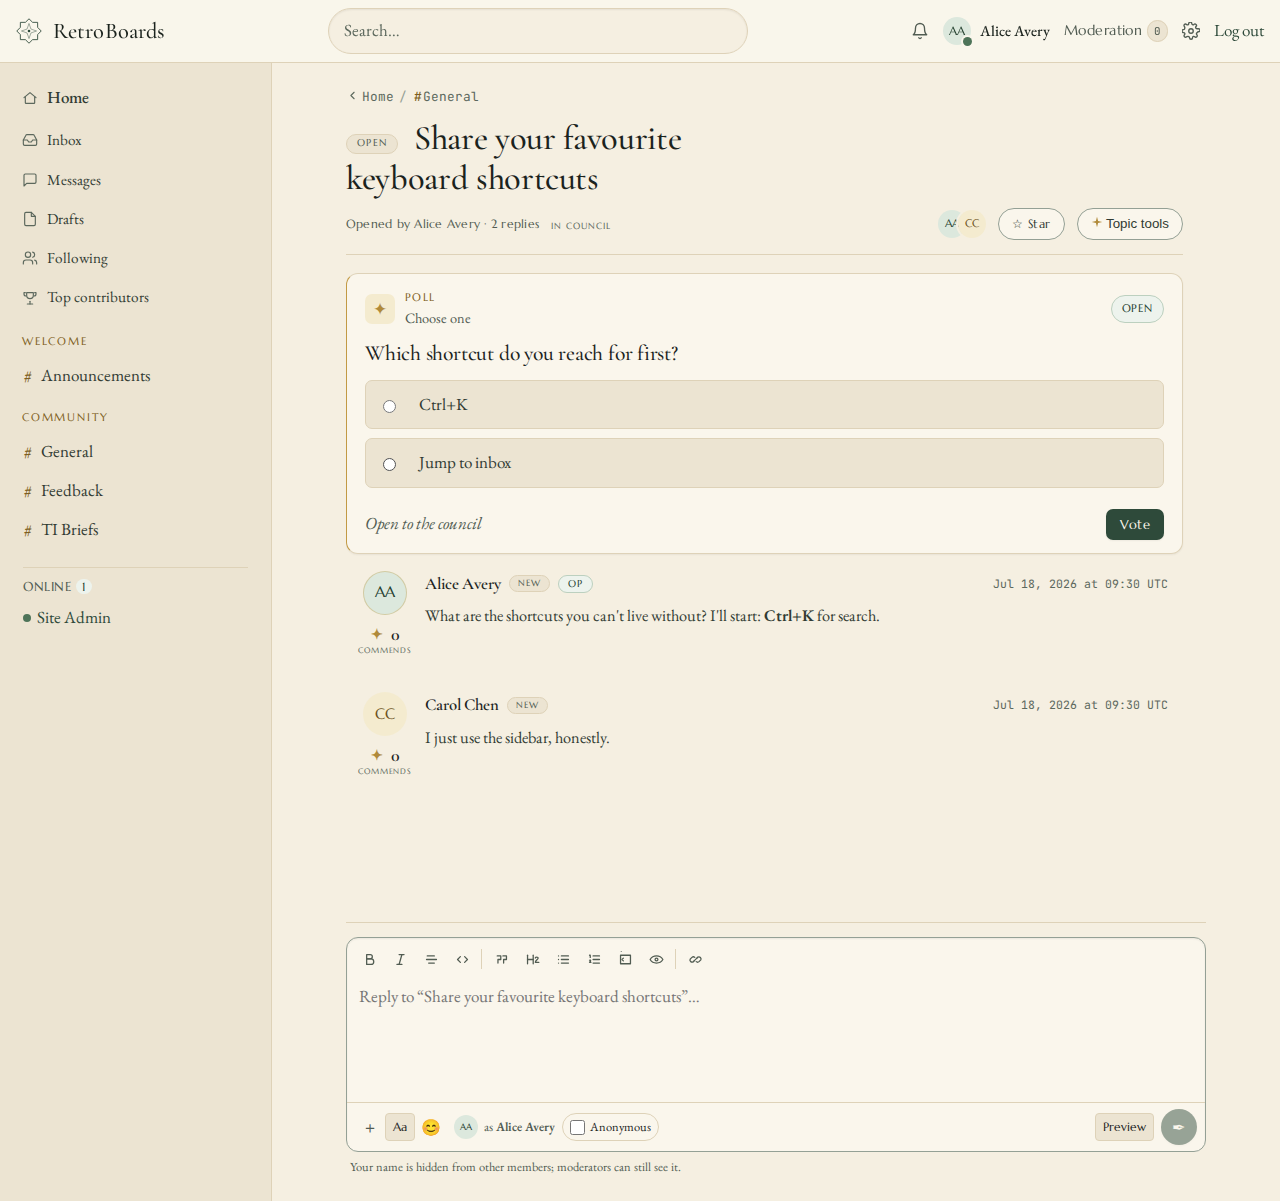
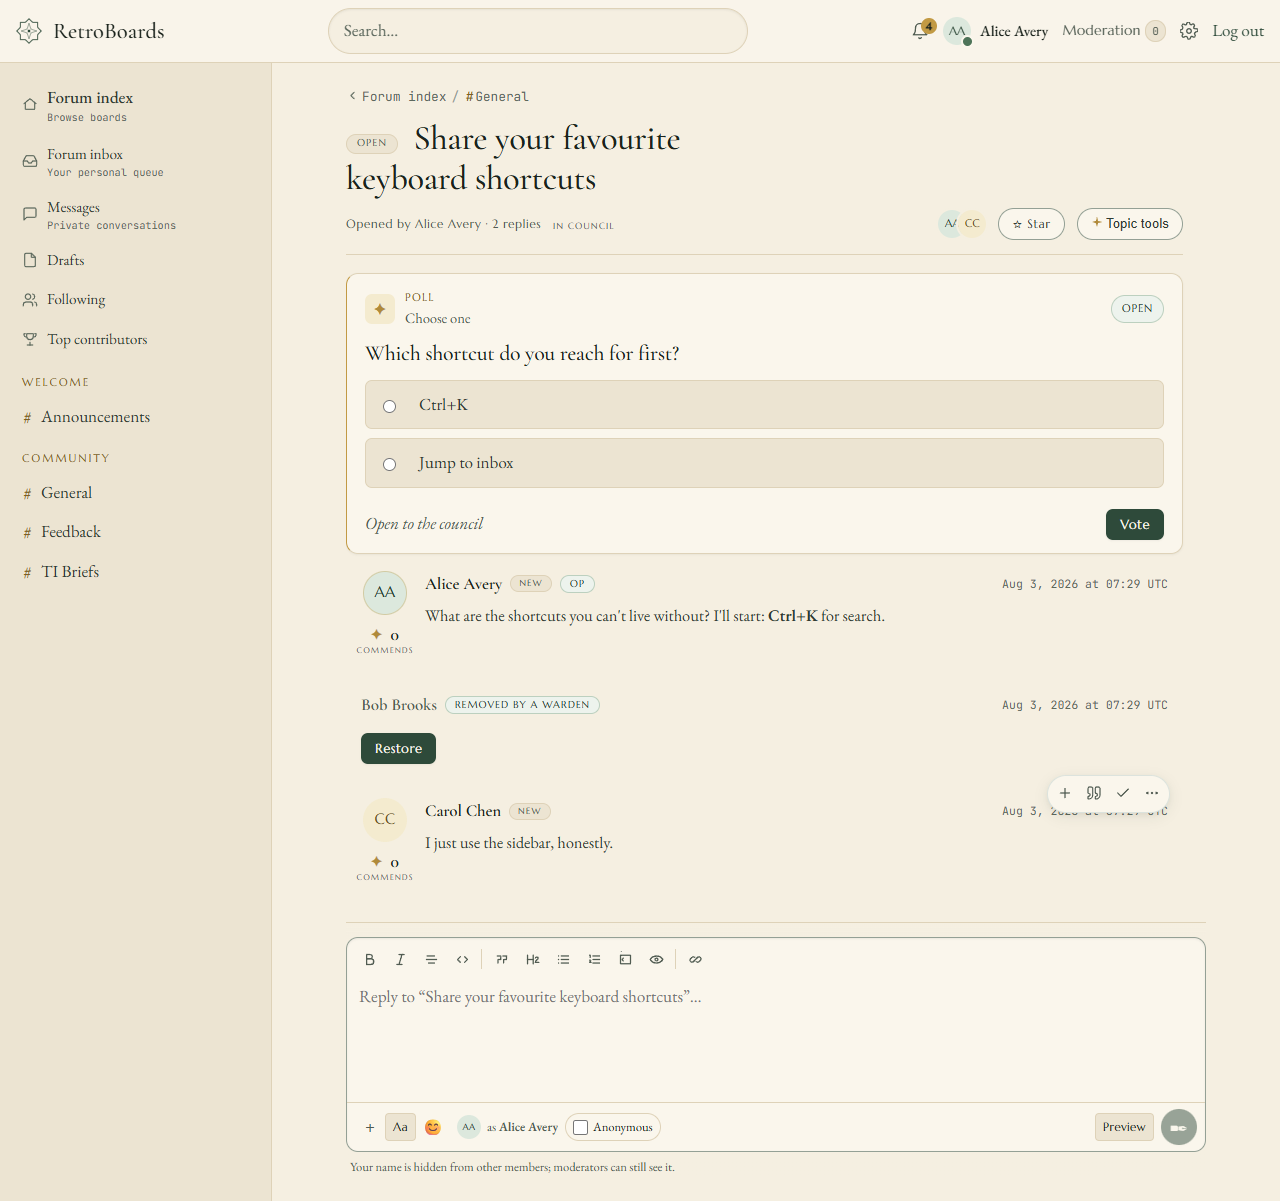
test: verify Imladris production forum surfaces

diff --git a/tests/browser/imladris-forum-surfaces.spec.ts b/tests/browser/imladris-forum-surfaces.spec.ts
@@ -121,6 +121,19 @@ async function expectNoHorizontalOverflow(page: Page): Promise<void> {
   expect(layout.scrollWidth, JSON.stringify(layout)).toBeLessThanOrEqual(layout.viewportWidth);
 }
 
+async function expectBoardIdentityContent(page: Page, theme: Theme): Promise<void> {
+  const board = page.locator('[data-board-identity]');
+  await expect(board.locator('.eyebrow'), `${theme} board eyebrow`).toBeVisible();
+  await expect(board.locator('h1'), `${theme} board title`).toBeVisible();
+  await expect(board.locator('h1'), `${theme} board title text`).toContainText('#General');
+  await expect(board.getByText('Talk about anything.'), `${theme} board description`).toBeVisible();
+  await expect(board.locator('[data-board-fact]'), `${theme} board facts`).toHaveCount(3);
+  for (const fact of await board.locator('[data-board-fact]').all()) {
+    await expect(fact, `${theme} board fact`).toBeVisible();
+  }
+  await expect(board.getByRole('button', { name: 'New topic' }), `${theme} promoted New topic`).toBeVisible();
+}
+
 function productionScreenshot(project: 'desktop' | 'mobile', surface: Surface, theme: Theme): string {
   return path.join(evidenceRoot, project, `${surface}-${theme}.png`);
 }
@@ -130,12 +143,25 @@ async function captureSurface(
   project: 'desktop' | 'mobile',
   surface: Surface,
   theme: Theme,
+  assertReady?: () => Promise<void>,
 ): Promise<void> {
+  await page.emulateMedia({ reducedMotion: 'reduce' });
   await page.evaluate((nextTheme) => {
     document.documentElement.setAttribute('data-theme', nextTheme);
   }, theme);
   await expect(page.locator('html')).toHaveAttribute('data-theme', theme);
-  await page.evaluate(() => document.fonts.ready.then(() => undefined));
+  await page.evaluate(async () => {
+    await document.fonts.ready;
+    await new Promise<void>((resolve) => requestAnimationFrame(() => requestAnimationFrame(() => resolve())));
+  });
+  if (assertReady) {
+    await assertReady();
+  }
+  await page.screenshot({ fullPage: true, animations: 'disabled' });
+  await page.evaluate(() => new Promise<void>((resolve) => requestAnimationFrame(() => resolve())));
+  if (assertReady) {
+    await assertReady();
+  }
   const output = productionScreenshot(project, surface, theme);
   fs.mkdirSync(path.dirname(output), { recursive: true });
   await page.screenshot({ path: output, fullPage: true, animations: 'disabled' });
@@ -179,6 +205,11 @@ async function captureComparison(
         </main>
       </body>
     </html>`, { waitUntil: 'load' });
+  await page.locator('img').evaluateAll(async (images) => {
+    await Promise.all(images.map((image) => image.decode()));
+  });
+  await page.screenshot({ fullPage: true, animations: 'disabled' });
+  await page.evaluate(() => new Promise<void>((resolve) => requestAnimationFrame(() => resolve())));
   const output = path.join(evidenceRoot, 'comparisons', comparisonName(project, surface));
   fs.mkdirSync(path.dirname(output), { recursive: true });
   await page.screenshot({ path: output, fullPage: true, animations: 'disabled' });
@@ -210,8 +241,8 @@ test('forum index, board, and canonical thread satisfy production visual and acc
   await expect(page.getByText('Pinned first, then last post')).toBeVisible();
   await expectNoHorizontalOverflow(page);
   await expectNoSeriousA11yViolations(page, '.board-view');
-  await captureSurface(page, project, 'board', 'light');
-  await captureSurface(page, project, 'board', 'dark');
+  await captureSurface(page, project, 'board', 'light', () => expectBoardIdentityContent(page, 'light'));
+  await captureSurface(page, project, 'board', 'dark', () => expectBoardIdentityContent(page, 'dark'));
 
   await openSeedThread(page);
   await expect(page.locator('[data-thread-study]')).toBeVisible();

diff --git a/tests/browser/composer-shell.spec.ts b/tests/browser/composer-shell.spec.ts
@@ -141,9 +141,15 @@ async function visit(page: Page, url: string): Promise<void> {
   expect(response!.status(), `GET ${url} should not be an error`).toBeLessThan(400);
 }
 
+async function openEnhancedBoardComposer(page: Page): Promise<void> {
+  const promotedTrigger = page.locator('[data-open-topic-composer]');
+  await expect(promotedTrigger).toBeVisible();
+  await promotedTrigger.click();
+}
+
 async function openBoardComposer(page: Page): Promise<Locator> {
   await visit(page, '/c/general');
-  await page.locator('details.composer-details > summary').click();
+  await openEnhancedBoardComposer(page);
   const form = page.locator('form.composer-shell[data-composer-instance^="new-thread-board-"]').first();
   await expect(form).toBeVisible();
   return form;
@@ -419,7 +425,7 @@ test('format row toggle persists and icon tooltips work for pointer and keyboard
   expect(await page.evaluate(() => localStorage.getItem('rb-composer:format-row'))).toBe('closed');
 
   await page.reload();
-  await page.locator('details.composer-details > summary').click();
+  await openEnhancedBoardComposer(page);
   form = page.locator('form.composer-shell[data-composer-instance^="new-thread-board-"]').first();
   toggle = form.getByRole('button', { name: 'Formatting' });
   toolbar = form.locator('.composer-toolbar');

diff --git a/src/Repository/UserPreferenceRepository.php b/src/Repository/UserPreferenceRepository.php
@@ -9,7 +9,7 @@ use App\Core\Database;
 /**
  * Per-user preference blob (USER §4, §7). Stored as a single JSON document so
  * new client/reading/privacy keys can be added without migrations. Server-side
- * prefs (pagination, sort, leaderboard opt-out) are read back here and enforced;
+ * prefs (pagination and leaderboard opt-out) are read back here and enforced;
  * client-only prefs (theme, density) are merely persisted for the browser.
  */
 final class UserPreferenceRepository

diff --git a/docs/evidence/imladris-forum-surfaces-production.md b/docs/evidence/imladris-forum-surfaces-production.md
@@ -1,0 +1,56 @@
+# Imladris production forum surfaces
+
+- Branch: `feature/imladris-forum-surfaces-production`
+- Test date: 2026-08-03
+- Implementation commit tested before this verification/evidence commit: `7c7bf13` (`fix: repair forum surface evidence defects`)
+- Starting Task 5 commit: `91954cecb83f919ff0dbef7e13e254ebd4c17489`
+- Source design: [`docs/superpowers/specs/2026-08-02-imladris-forum-surfaces-production-design.md`](../superpowers/specs/2026-08-02-imladris-forum-surfaces-production-design.md)
+- Execution plan: [`docs/superpowers/plans/2026-08-02-imladris-forum-surfaces-production.md`](../superpowers/plans/2026-08-02-imladris-forum-surfaces-production.md)
+- Approved references: `docs/superpowers/prototypes/2026-08-02-imladris-forum-surfaces/evidence/`
+
+## Measured browser result
+
+The focused suite was prepared with `bash prepare.sh` and run in the approved native Windows Chrome with:
+
+```powershell
+$env:E2E_BROWSER_CHANNEL='chrome'
+npx playwright test imladris-forum-surfaces.spec.ts
+```
+
+Latest evidence capture result: **8 passed, 2 intentionally skipped**. The two skips are the desktop-project-owned 800px shell-transition checks repeated under the mobile project. The run recorded no console warnings/errors, page errors, or HTTP responses with status 400 or higher.
+
+The final combined native-Chrome gate ran this focused suite together with `composer-shell.spec.ts` and `thread-view-study.spec.ts`: **48 passed, 20 intentionally skipped, 68 total** in 176.2 seconds. The composer suite's JS-enabled board helper now uses the visible promoted opener; the separate no-JavaScript case continues to prove that the native summary works without enhancement.
+
+| Route / surface | Desktop 1266×854 CSS px, DSF 1 | Mobile 390×844 CSS px, DSF 2 | Theme/state checks |
+| --- | --- | --- | --- |
+| `/` forum index | [light](imladris-forum-surfaces-production/desktop/forum-index-light.png), [dark](imladris-forum-surfaces-production/desktop/forum-index-dark.png) | [light](imladris-forum-surfaces-production/mobile/forum-index-light.png), [dark](imladris-forum-surfaces-production/mobile/forum-index-dark.png) | Forum hero and personal cross-board-queue copy visible; board identity absent; no horizontal overflow; Axe serious/critical count 0. |
+| `/c/general` board | [light](imladris-forum-surfaces-production/desktop/board-light.png), [dark](imladris-forum-surfaces-production/desktop/board-dark.png) | [light](imladris-forum-surfaces-production/mobile/board-light.png), [dark](imladris-forum-surfaces-production/mobile/board-dark.png) | Identity eyebrow, `#General`, description, three facts, Follow board, and promoted New topic are visible in both themes; no horizontal overflow; Axe serious/critical count 0. |
+| Canonical “Share your favourite keyboard shortcuts” thread | [light](imladris-forum-surfaces-production/desktop/thread-light.png), [dark](imladris-forum-surfaces-production/desktop/thread-dark.png) | [light](imladris-forum-surfaces-production/mobile/thread-light.png), [dark](imladris-forum-surfaces-production/mobile/thread-dark.png) | Thread Study root visible; board identity absent; participant list has valid list semantics; no horizontal overflow; Axe serious/critical count 0. |
+
+Full-page output dimensions are 1266×855 physical px for the desktop captures. Mobile full-page outputs are 780×1710 for the index, 780×1774 for the board, and 780×1688 for the thread. The mobile reference files are 390×844 physical px; the production captures use the configured device scale factor 2 and are normalized to 390 CSS px width in the comparison sheets.
+
+The board identity computed CSS is exact in the browser: background `rgb(46, 74, 58)`, foreground `rgb(250, 246, 236)`, bottom rule `rgb(194, 154, 68)`, and bottom-rule width `3px`.
+
+Keyboard evidence used Tab focus on the promoted New topic button, Enter activation, title-input focus, Escape dismissal, `aria-expanded` true/false, and focus restoration to the actual opener. With JavaScript disabled, the hidden promoted trigger was absent, `details.composer-details > summary` opened the single real `form[action="/threads"]`, and the canonical thread link remained usable. The focused browser checks also cover the 800px board/index shell transition and the 390px mobile viewport without horizontal overflow.
+
+## Visual comparison
+
+- Desktop: [forum index](imladris-forum-surfaces-production/comparisons/forum-index.png), [board](imladris-forum-surfaces-production/comparisons/board.png), [thread](imladris-forum-surfaces-production/comparisons/thread.png)
+- Mobile: [forum index](imladris-forum-surfaces-production/comparisons/forum-index-mobile.png), [board](imladris-forum-surfaces-production/comparisons/board-mobile.png), [thread](imladris-forum-surfaces-production/comparisons/thread-mobile.png)
+
+All six comparison sheets and all six mobile production screenshots were opened after the latest native-Chrome capture. Typography hierarchy, route structure, spacing rhythm, band containment, responsive wrapping, target sizing, contrast, icons, and image sharpness were inspected. Production differs from the approved prototype in fixture names/counts/content and in shared shell controls already owned by the application; those differences are intentional and do not change the approved surface hierarchy.
+
+The first mobile dark-board capture exposed a Chrome raster artifact that omitted most identity-band content even though the DOM was visible. The focused spec now sets reduced motion before theme changes, performs a disposable animations-disabled settling raster, and reasserts the identity content before the saved capture. The latest full desktop/mobile run and visual reinspection show the complete eyebrow, title, description, facts, Follow board, and New topic controls without the earlier strip/artifact.
+
+The `/inbox` body is outside this production-surface slice; only its existing navigation route/markup is preserved here.
+
+## Final verification
+
+- Full PHPUnit, with the documented deterministic test-only `APP_KEY` and a fresh test schema: **2,416 tests, 17,159 assertions, 2 skipped**, exit 0.
+- Imladris runtime verification: **11 tests, 66 assertions**, exit 0.
+- WYSIWYG generated-asset check: current, exit 0.
+- Native Chrome combined forum/composer/Thread Study gate: **48 passed, 20 intentionally skipped**, exit 0.
[1 lines of base64/hex data omitted]
+- `git diff --check`: clean.
+
+The Thread Study suite refreshed its existing desktop/mobile evidence images after the Forum index label and participant-list semantics changed; those browser-rendered artifacts were opened and inspected with no remaining visual defect.

diff --git a/design-qa.md b/design-qa.md
@@ -1,0 +1,52 @@
+# Design QA: Imladris production forum surfaces
+
+**Source visual truth**
+
+`docs/superpowers/prototypes/2026-08-02-imladris-forum-surfaces/evidence/`
+
+**Rendered implementation**
+
+`docs/evidence/imladris-forum-surfaces-production/`
+
+**Viewport and normalization**
+
+- Desktop references: 1266×854 px. Browser viewport: 1266×854 CSS px at device scale factor 1. Full-page production captures: 1266×855 px.
+- Mobile references: 390×844 px. Browser viewport: 390×844 CSS px at device scale factor 2. Full-page production captures: 780×1710 index, 780×1774 board, and 780×1688 thread. Comparison sheets render both sides at 390 CSS px width so the production `@2x` captures are density-normalized.
+- Compared states: signed-in `/`, `/c/general`, and the canonical “Share your favourite keyboard shortcuts” thread in light and dark themes; comparison sheets use the approved light references.
+
+**Full-view and focused evidence**
+
+- Full-route sheets: [desktop index](docs/evidence/imladris-forum-surfaces-production/comparisons/forum-index.png), [desktop board](docs/evidence/imladris-forum-surfaces-production/comparisons/board.png), [desktop thread](docs/evidence/imladris-forum-surfaces-production/comparisons/thread.png), [mobile index](docs/evidence/imladris-forum-surfaces-production/comparisons/forum-index-mobile.png), [mobile board](docs/evidence/imladris-forum-surfaces-production/comparisons/board-mobile.png), and [mobile thread](docs/evidence/imladris-forum-surfaces-production/comparisons/thread-mobile.png).
+- Focused review used the standalone light/dark production captures, especially the board identity band and mobile thread header/poll/composer. No extra crop was needed because these regions are legible at original resolution in the full-page artifacts.
+- Fonts/typography: display serif, body serif, label capitals, monospace metadata, hierarchy, weights, wrapping, and line height follow the approved visual language.
+- Spacing/layout: route shell, content widths, identity-band containment, vertical rhythm, mobile stacking, target sizes, and absence of horizontal overflow were checked.
+- Colors/tokens: browser assertions measured the identity background `rgb(46, 74, 58)`, foreground `rgb(250, 246, 236)`, and 3px `rgb(194, 154, 68)` rule.
+- Image/asset fidelity: the existing application icon partial and font assets remain sharp; no reference image was edited and no fabricated visible asset was introduced.
+- Copy/content: route labels and surface-purpose copy are preserved. Fixture names/counts differ intentionally from the prototype. `/inbox` body content is out of scope.
+
+**Interaction and accessibility evidence**
+
+Native Windows Chrome covered promoted-composer keyboard open/focus/Escape/focus-return behavior, the no-JavaScript summary/form path, canonical-thread navigation, serious/critical Axe checks, console/page/HTTP error capture, exact computed band CSS, and overflow at 390px and the 800px shell transition.
+
+**Comparison history**
+
+- P2 mobile/index shell overflow: route-scoped 860px margin correction; post-fix 390px and 800px browser checks passed.
+- P2 no-JavaScript duplicate promoted trigger: route-scoped `[hidden]` rule; post-fix the trigger is absent and the native summary/form path is usable.
+- P2 thread participant semantics: participant container/items changed to `ul`/`li`; post-fix PHP semantics and Axe serious/critical checks passed.
+- P2 mobile dark-board evidence artifact: the first full capture omitted the identity copy and New topic control despite visible DOM. Capture synchronization now disables transitions before theme mutation, settles one disposable raster, and reasserts all identity content; the recaptured artifact and subsequent full-suite capture were visually inspected and contain the complete band.
+
+**Findings**
+
+No actionable P0/P1/P2 visual finding remains in the inspected evidence. Intentional fixture-data and shared-shell differences are documented in the full evidence report.
+
+**Verification summary**
+
+- Full PHPUnit: 2,416 tests, 17,159 assertions, 2 skipped.
+- Imladris runtime: 11 tests, 66 assertions.
+- Combined native-Chrome forum/composer/Thread Study gate: 48 passed, 20 intentionally skipped.
+- Console warnings/errors, page errors, and HTTP responses with status 400 or higher: none in the focused surface run.
[1 lines of base64/hex data omitted]
+
+**Final result**
+
+final result: passed

diff --git a/USER.md b/USER.md
@@ -255,7 +255,7 @@ Plus: **email digest cadence** (off / daily), **quiet hours**, **per-thread mute
 
 ### 4.8 Storage & application
 
-Preferences live in `user_preferences` (§7) with defaults inherited from site settings. Client-only prefs (theme, density, font) apply immediately in the browser; server-side prefs (pagination, sorts, privacy, DMs, blocks) are enforced server-side so they hold across devices and can't be bypassed.
+Preferences live in `user_preferences` (§7) with defaults inherited from site settings. Client-only prefs (theme, density, font) apply immediately in the browser; server-side prefs (pagination, privacy, DMs, blocks) are enforced server-side so they hold across devices and can't be bypassed.
 
 ### 4.9 Thread Intelligence disclosure and member workflow
 
